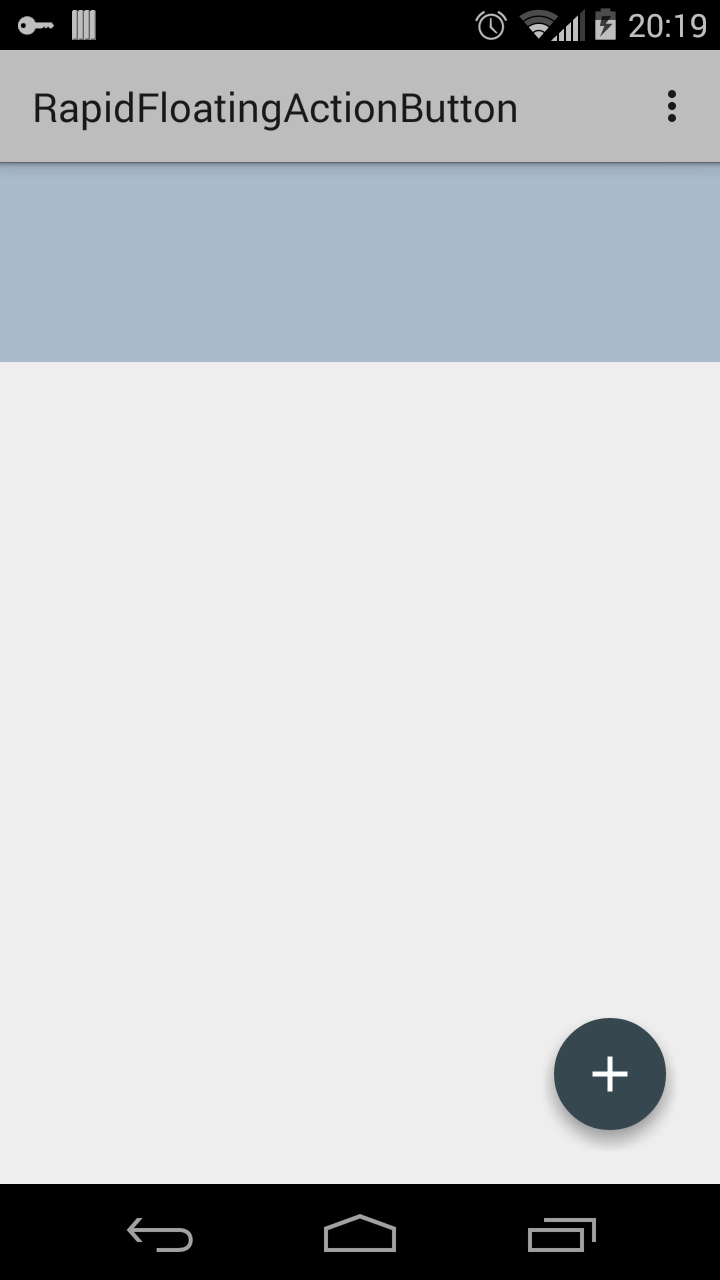
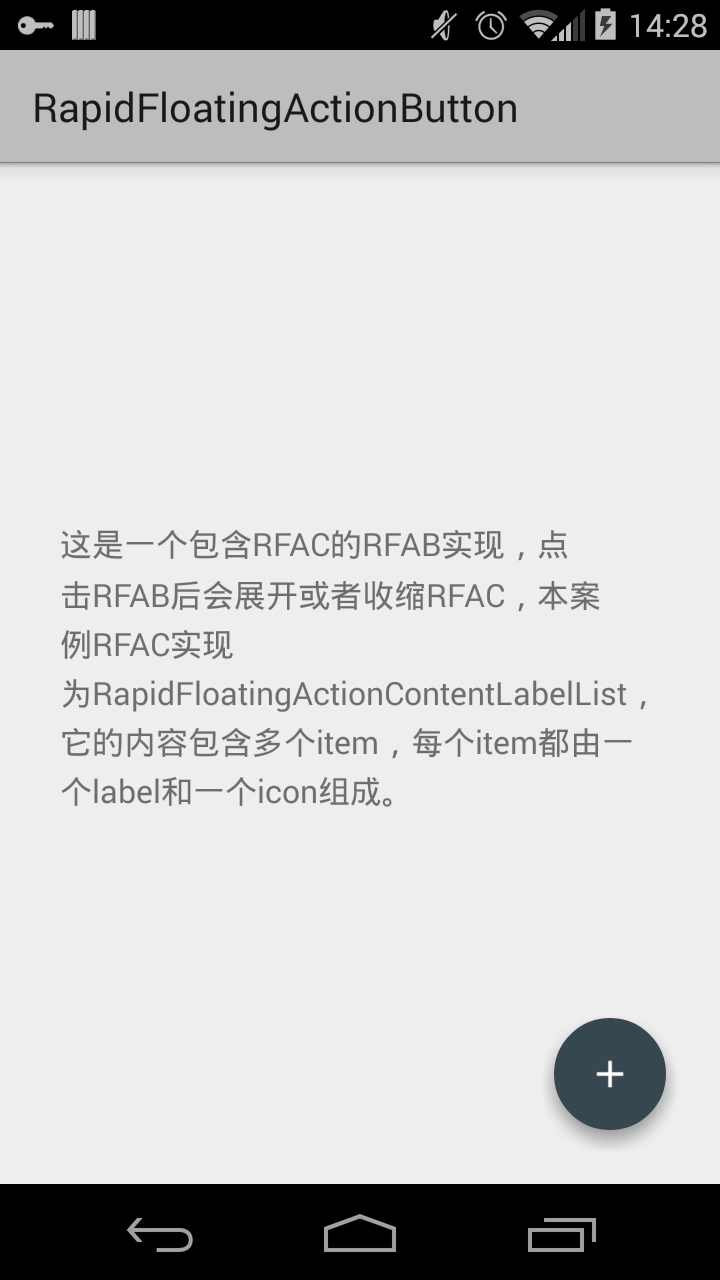
优化button按钮显示；增加RapidFloatingActionContentLabelList实现可设置label的背景、字体大小和颜色；替换example图片

diff --git a/example/src/main/java/com/wangjie/rapidfloatingactionbutton/example/LabelListSampleActivity.java b/example/src/main/java/com/wangjie/rapidfloatingactionbutton/example/LabelListSampleActivity.java
@@ -1,8 +1,10 @@
 package com.wangjie.rapidfloatingactionbutton.example;
 
+import android.graphics.Color;
 import android.os.Bundle;
 import android.widget.Toast;
 import com.wangjie.androidbucket.utils.ABTextUtil;
+import com.wangjie.androidbucket.utils.imageprocess.ABShape;
 import com.wangjie.androidinject.annotation.annotations.base.AILayout;
 import com.wangjie.androidinject.annotation.annotations.base.AIView;
 import com.wangjie.androidinject.annotation.present.AIActionBarActivity;
@@ -37,37 +39,40 @@ public class LabelListSampleActivity extends AIActionBarActivity implements Rapi
         List<RFACLabelItem> items = new ArrayList<>();
         items.add(new RFACLabelItem<Integer>()
                         .setLabel("Github: wangjiegulu")
-                        .setResId(R.drawable.ic_launcher)
+                        .setResId(R.mipmap.ico_test_d)
                         .setIconNormalColor(0xffd84315)
                         .setIconPressedColor(0xffbf360c)
                         .setWrapper(0)
         );
         items.add(new RFACLabelItem<Integer>()
                         .setLabel("tiantian.china.2@gmail.com")
-                        .setResId(R.drawable.ic_launcher)
+                        .setResId(R.mipmap.ico_test_c)
                         .setIconNormalColor(0xff4e342e)
                         .setIconPressedColor(0xff3e2723)
+                        .setLabelColor(Color.WHITE)
+                        .setLabelSizeSp(14)
+                        .setLabelBackgroundDrawable(ABShape.generateCornerShapeDrawable(0xaa000000, ABTextUtil.dip2px(context, 4)))
                         .setWrapper(1)
         );
         items.add(new RFACLabelItem<Integer>()
                         .setLabel("WangJie")
-                        .setResId(R.drawable.ic_launcher)
+                        .setResId(R.mipmap.ico_test_b)
                         .setIconNormalColor(0xff056f00)
                         .setIconPressedColor(0xff0d5302)
+                        .setLabelColor(0xff056f00)
                         .setWrapper(2)
         );
         items.add(new RFACLabelItem<Integer>()
                         .setLabel("Compose")
-                        .setResId(R.drawable.ic_launcher)
+                        .setResId(R.mipmap.ico_test_a)
                         .setIconNormalColor(0xff283593)
                         .setIconPressedColor(0xff1a237e)
+                        .setLabelColor(0xff283593)
                         .setWrapper(3)
         );
         rfaContent
                 .setItems(items)
-//                .setIconShadowRadius(ABTextUtil.dip2px(context, 5))
                 .setIconShadowRadius(ABTextUtil.dip2px(context, 5))
-//                .setIconShadowColor(0xff999999)
                 .setIconShadowColor(0xff888888)
                 .setIconShadowDy(ABTextUtil.dip2px(context, 5))
         ;

diff --git a/library/src/main/java/com/wangjie/rapidfloatingactionbutton/contentimpl/RapidFloatingActionContentLabelList.java b/library/src/main/java/com/wangjie/rapidfloatingactionbutton/contentimpl/RapidFloatingActionContentLabelList.java
@@ -4,6 +4,7 @@ import android.content.Context;
 import android.graphics.drawable.Drawable;
 import android.os.Build;
 import android.util.AttributeSet;
+import android.util.TypedValue;
 import android.view.LayoutInflater;
 import android.view.View;
 import android.view.ViewGroup;
@@ -105,10 +106,8 @@ public class RapidFloatingActionContentLabelList extends RapidFloatingActionCont
             RFACLabelItem item = items.get(i);
             // 初始化控件，并设置监听事件
             View itemView = LayoutInflater.from(getContext()).inflate(R.layout.rfab__content_label_list_item, null);
-//            View rootView = itemView.findViewById(R.id.rfab__content_label_list_root_view);
             View rootView = ABViewUtil.obtainView(itemView, R.id.rfab__content_label_list_root_view);
 
-//            TextView labelTv = (TextView) itemView.findViewById(R.id.rfab__content_label_list_label_tv);
             TextView labelTv = ABViewUtil.obtainView(itemView, R.id.rfab__content_label_list_label_tv);
             ImageView iconIv = ABViewUtil.obtainView(itemView, R.id.rfab__content_label_list_icon_iv);
             rootView.setOnClickListener(this);
@@ -173,6 +172,19 @@ public class RapidFloatingActionContentLabelList extends RapidFloatingActionCont
                 }
                 labelTv.setVisibility(VISIBLE);
                 labelTv.setText(label);
+                Drawable bgDrawable = item.getLabelBackgroundDrawable();
+                if (null != bgDrawable) {
+                    ABViewUtil.setBackgroundDrawable(labelTv, bgDrawable);
+                }
+                Integer labelColor = item.getLabelColor();
+                if (null != labelColor) {
+                    labelTv.setTextColor(labelColor);
+                }
+                Integer labelSize = item.getLabelSizeSp();
+                if (null != labelSize) {
+                    labelTv.setTextSize(TypedValue.COMPLEX_UNIT_SP, labelSize);
+                }
+
             }
             int resId = item.getResId();
             if (resId > 0) {

diff --git a/library/src/main/java/com/wangjie/rapidfloatingactionbutton/contentimpl/labellist/RFACLabelItem.java b/library/src/main/java/com/wangjie/rapidfloatingactionbutton/contentimpl/labellist/RFACLabelItem.java
@@ -14,12 +14,15 @@ public class RFACLabelItem<T> implements Serializable {
     private Drawable drawable;
     private Integer iconNormalColor;
     private Integer iconPressedColor;
-    private String label;
     private T wrapper;
     /**
      * 是否加粗字体
      */
     private boolean labelTextBold = true;
+    private String label;
+    private Integer labelColor;
+    private Integer labelSizeSp;
+    private Drawable labelBackgroundDrawable;
 
     public RFACLabelItem() {
     }
@@ -89,6 +92,34 @@ public class RFACLabelItem<T> implements Serializable {
 
     public RFACLabelItem<T> setLabelTextBold(boolean labelTextBold) {
         this.labelTextBold = labelTextBold;
+        return this;
+    }
+
+
+    public Drawable getLabelBackgroundDrawable() {
+        return labelBackgroundDrawable;
+    }
+
+    public RFACLabelItem<T> setLabelBackgroundDrawable(Drawable labelBackgroundDrawable) {
+        this.labelBackgroundDrawable = labelBackgroundDrawable;
+        return this;
+    }
+
+    public Integer getLabelColor() {
+        return labelColor;
+    }
+
+    public RFACLabelItem<T> setLabelColor(Integer labelColor) {
+        this.labelColor = labelColor;
+        return this;
+    }
+
+    public Integer getLabelSizeSp() {
+        return labelSizeSp;
+    }
+
+    public RFACLabelItem<T> setLabelSizeSp(Integer labelSizeSp) {
+        this.labelSizeSp = labelSizeSp;
         return this;
     }
 }
